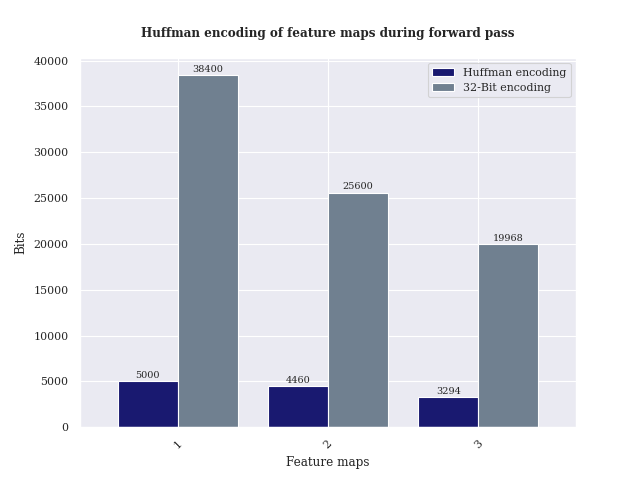
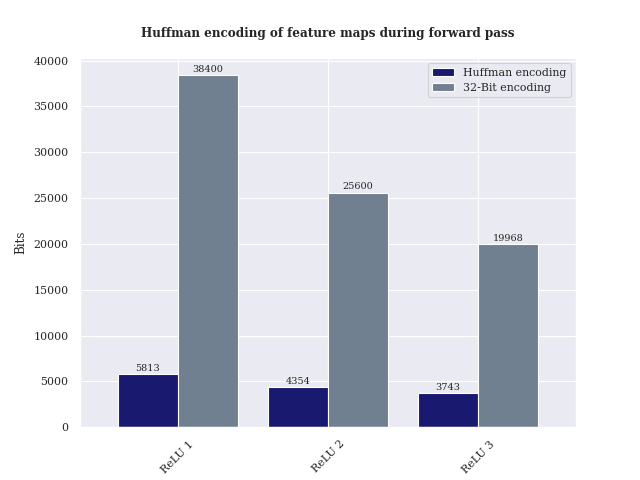
Feature extraction script adjusted for conv-net-trax, first version

diff --git a/hannah/feature_extraction.py b/hannah/feature_extraction.py
@@ -8,11 +8,10 @@ import numpy as np
 import matplotlib.pyplot as plt
 import pandas as pd
 from tabulate import tabulate
-from torch import nn
 import torchaudio
 from hannah.models.tc.models import TCResidualBlock
-
-
+from hannah.models.factory.qat import ConvBn1d, Conv1d, ConvBnReLU1d, ConvReLU1d
+from torch import nn
 def barplot(data):
     sns.set_theme(style="darkgrid")
     sns.set_context("paper", font_scale=0.9)
@@ -38,12 +37,18 @@ def features(module):
         def hook(model, input, output):
             out[name] = output.detach()
         return hook
-    names = []
+    #names = []
     for name, mod in module.named_modules():
-        if isinstance(mod, TCResidualBlock):
-            names.append(name.replace('model.layers.', ''))
+        if isinstance(mod, nn.ReLU): # conv-net-trax
+            #names.append(name.replace('model.layers.', ''))
+            mod.register_forward_hook(conv_output(name)) # hook on ReLU output
+        if isinstance(mod, TCResidualBlock): # tc-res8
+            #names.append(name.replace('model.layers.', ''))
             mod.downsample[2].register_forward_hook(conv_output(name)) # hook on ReLU output
     data_wav, sample_rate = torchaudio.load('/local/datasets/speech_commands_v0.02/left/cd671b5f_nohash_2.wav')
+    #for batch in module.val_dataloader():
+    #    print(batch)
+    #    result = module(batch)
     result = module(data_wav)
 
     # Encode features with Huffman
@@ -62,7 +67,7 @@ def features(module):
     print('Size of Huffman Dictionary + encoded bits: ', (len(frq)*32)+(sum(bits_features_encoded)*2))
     print('Total number of original bits: ', sum(bits_features_original))
     data = pd.DataFrame(
-    {'Layer': names,
+    {'Layer': ['ReLU 1', 'ReLU 2', 'ReLU 3'],
     'Huffman encoding': bits_features_encoded,
     '32-Bit encoding': bits_features_original,
     'Compression rate': percentages
@@ -71,13 +76,13 @@ def features(module):
 
 
 def main():
-    config = {'name': 'test', 'checkpoints': ['/local/wernerju/hannah/trained_models/test/tc-res8/last.ckpt'], 'noise': [], 'output_dir': 'eval', 'default_target': 'hannah.modules.classifier.StreamClassifierModule'}
+    # -------
+    config = {'name': 'test', 'checkpoints': ['/local/wernerju/hannah/trained_models/test/conv_net_trax/best.ckpt'], 'noise': [], 'output_dir': 'eval', 'default_target': 'hannah.modules.classifier.StreamClassifierModule'}
     seed_everything(1234, workers=True)
-    checkpoint_path = '/local/wernerju/hannah/trained_models/test/tc-res8/last.ckpt'
+    checkpoint_path = '/local/wernerju/hannah/trained_models/test/conv_net_trax/best.ckpt'
     checkpoint = torch.load(checkpoint_path, map_location="cpu")
 
     hparams = checkpoint["hyper_parameters"]
-
     if "_target_" not in hparams:
         target = config.default_target
         logging.warning("Target class not given in checkpoint assuming: %s", target)
@@ -88,7 +93,7 @@ def main():
     module.setup("test")
     module.load_state_dict(checkpoint["state_dict"])
 
-    # until this point, code was taken from eval.py
+    # until this point, code was copied from eval.py
     # -----
     data, tree, encoding, feature = features(module)
     decoding = Huffman_decoding(encoding, tree)

diff --git a/hannah/callbacks/svd_compress.py b/hannah/callbacks/svd_compress.py
@@ -42,7 +42,7 @@ class SVD(Callback):
                         pl_module.model.linear[0][0] = new_fc
                         pl_module.model.linear[0][0][0].weight = torch.nn.Parameter(SVh, requires_grad=True)
                         pl_module.model.linear[0][0][1].weight = torch.nn.Parameter(U, requires_grad=True)
-                    
+
 
                     # Second case: tc-res8 model
                     elif type(module) in [nn.Linear] and name != "model.linear.0.0.0" and name != "model.linear.0.0.1" and not isinstance(pl_module.model.fc, nn.Sequential):
@@ -58,36 +58,7 @@ class SVD(Callback):
                         pl_module.model.fc = new_fc
                         pl_module.model.fc[0].weight = torch.nn.Parameter(SVh, requires_grad=True)
                         pl_module.model.fc[1].weight = torch.nn.Parameter(U, requires_grad=True)
-        return pl_module
-
-
-
-
-        '''compressed_weights = 0
-        for name, module in pl_module.named_modules():
-            if type(module) in [nn.Linear] or name == "model.linear.0.0":
-                U, S, Vh = torch.linalg.svd(module.weight, full_matrices=True)
-                size_S = list(S.size())[0]
-                for i in range(self.rank, size_S):
-                    S[i] = 0
-                compressed_weights = torch.matmul(U, torch.matmul(torch.diag(S), Vh[:12, :]))
-                print(compressed_weights.shape)
-                if type(module) in [nn.Linear]:
-                    pl_module.model.fc.weight = torch.nn.Parameter(compressed_weights, requires_grad=True)
-
-                else:
-                    pl_module.model.linear[0][0].weight = torch.nn.Parameter(compressed_weights, requires_grad=True)
-                
-        return pl_module'''
-  
-
-
-'''
-
-        ########### Test if weights were updated #############
-        for name, param in pl_module.named_parameters():
-            if "linear.0.0" in name:
-                print((param == compressed_weights).all())
-        '''
-
         
+        for n, m in pl_module.named_parameters(): # check if tensors are leaf nodes - however, not working with pruning
+            print(n, m.requires_grad) # True
+        return pl_module

diff --git a/hannah/huffman.py b/hannah/huffman.py
@@ -84,10 +84,13 @@ def encode_Sequence(ws, huffman_dict):
 def Huffman_encoding(ws):
     frq = get_frequencies(ws)
     print('Huffman dictionary with relative frequencies as values, indices as keys: ', frq)
+    import sys
+    #print('Storage: ', sys.getsizeof(frq))
     tree = create_tree(frq)
     encoding = {}
     huffman_dict = encode_Huffman(tree, '', encoding)
     huffman_encoding = encode_Sequence(ws, huffman_dict)
+    #print('Storage: ', sys.getsizeof(tree))
     return huffman_encoding, tree, frq
 
 
